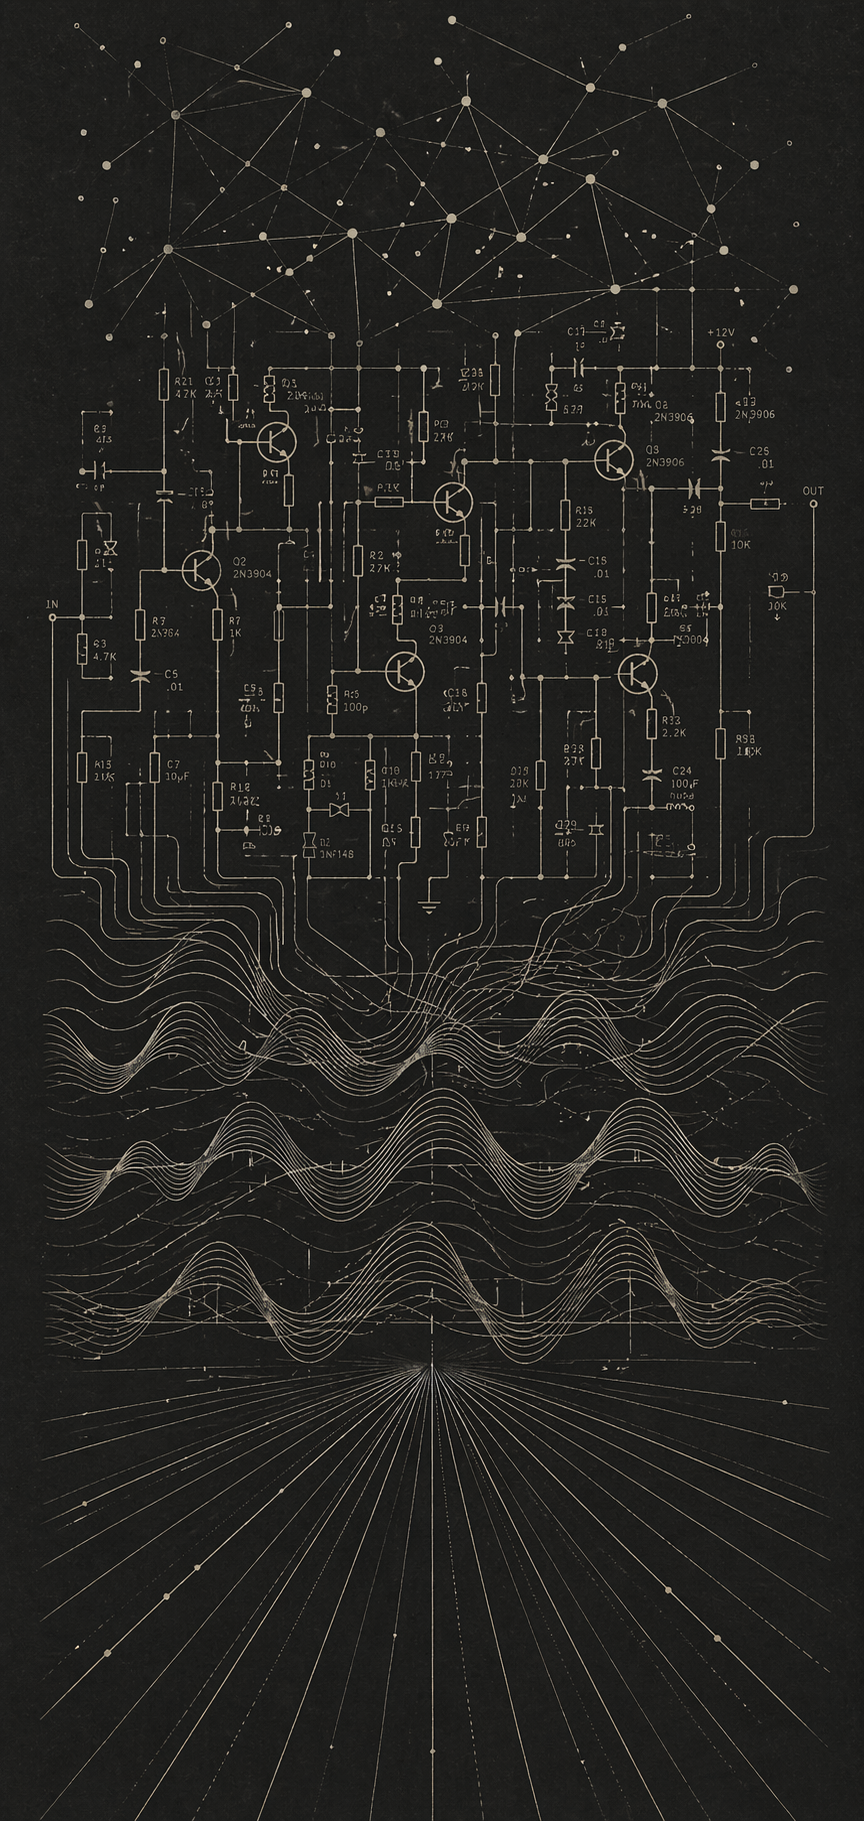
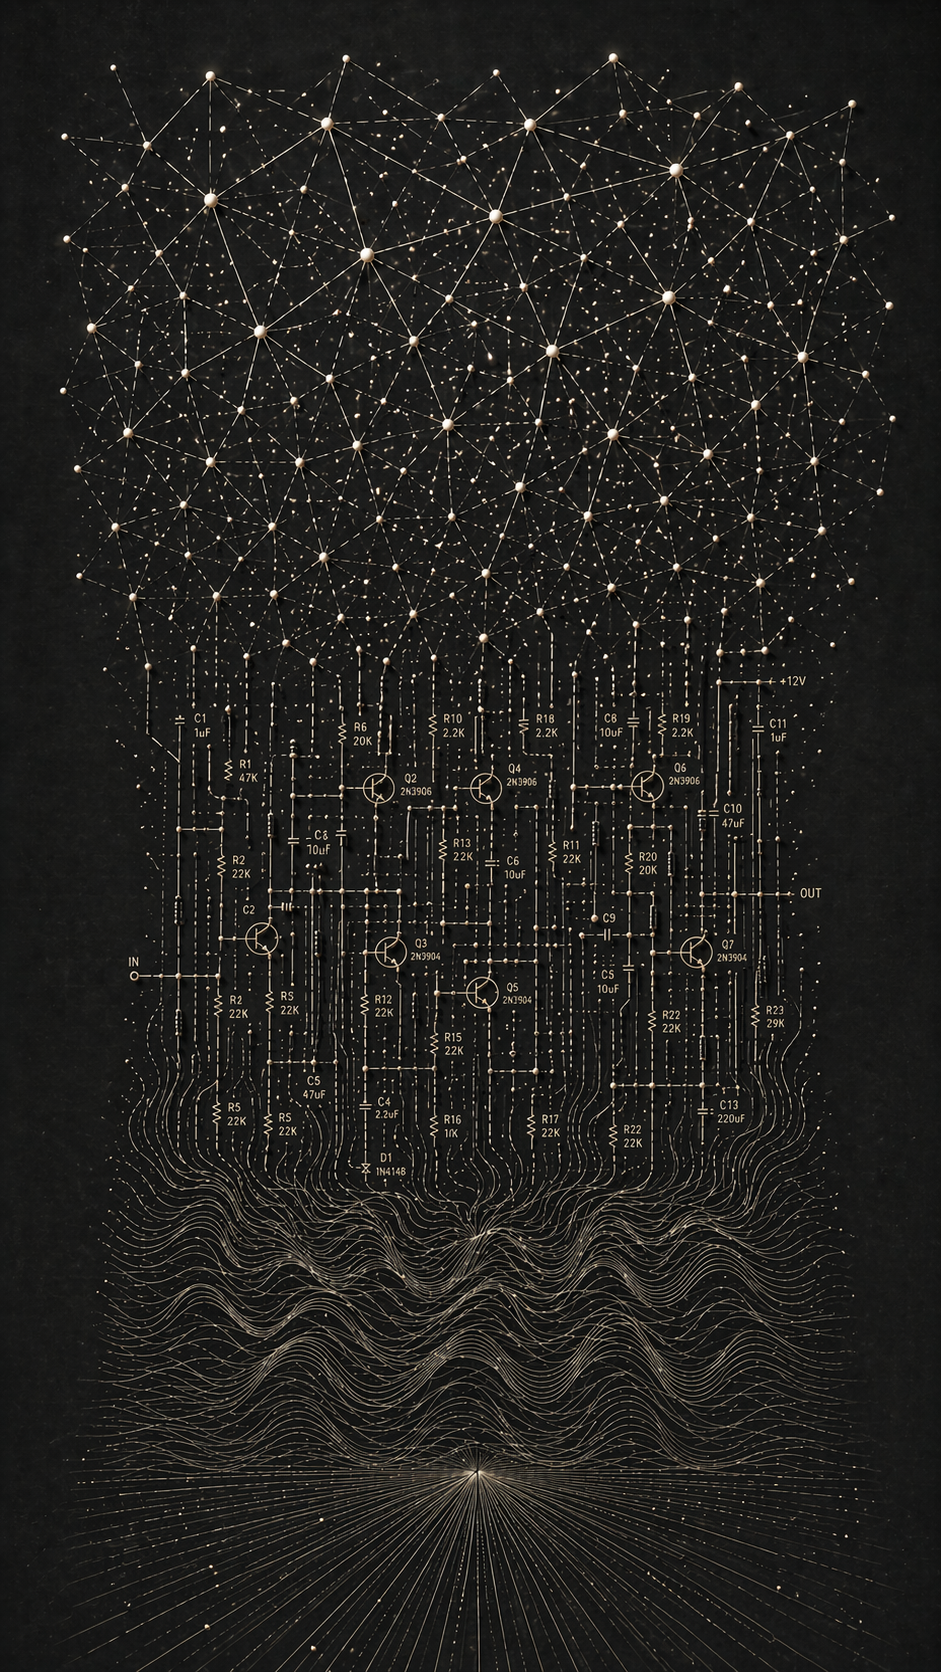
update bg

diff --git a/index.html b/index.html
@@ -1139,20 +1139,28 @@
      the bottom of <body>) against #contact.offsetTop, kept in sync on resize
      and image-load-induced reflows. */
   body { position: relative; }           /* anchor for the absolute-positioned bg layer */
+  .bg-blueprint-wrap {
+    position: fixed;
+    inset: 0;
+    z-index: 0;
+    pointer-events: none;
+    overflow: hidden;
+  }
   .bg-blueprint {
     position: absolute;
     top: 0;
-    left: 0;
-    width: 100%;
-    /* height: set by JS to #contact.offsetTop — fallback below so SSR/no-JS is sane */
-    height: 100%;
-    z-index: 0;
-    pointer-events: none;
-    background-image: url('assets/images/bg-blueprint.png');
-    background-repeat: no-repeat;
-    background-position: top center;
-    background-size: auto 100%;           /* fit to height, keep width proportional */
+    left: 50%;
+    transform: translate3d(-50%, 0, 0);
+    height: auto;
+    max-width: none;
     opacity: 0.65;
+    will-change: transform;
+  }
+  @media (max-width: 768px) {
+    .bg-blueprint { will-change: auto; }
+  }
+  @media (prefers-reduced-motion: reduce) {
+    .bg-blueprint { transform: translate3d(-50%, 0, 0) !important; }
   }
 
   /* Lift all primary content above the fixed z-index:0 parallax layer.
@@ -1177,7 +1185,9 @@
 <body>
 
 <!-- Full-site parallax blueprint background. Painted behind all content. -->
-<div class="bg-blueprint" aria-hidden="true"></div>
+<div class="bg-blueprint-wrap" aria-hidden="true">
+  <img class="bg-blueprint" src="assets/images/bg-blueprint.png" alt="" />
+</div>
 
 <nav>
   <div class="logo">AL<span>/</span>BAY</div>
@@ -2853,21 +2863,43 @@ class Knob {
    resize, on window.load (images), and on any body resize (reveal
    animations, async thumbs). Small, self-contained, uses the shared
    __debounce helper added by the main inline script. */
-(function sizeBlueprint() {
-  var bg = document.querySelector('.bg-blueprint');
-  var end = document.getElementById('contact');
-  if (!bg || !end) return;
-  var update = function() {
-    var h = end.offsetTop;
-    if (h > 0) bg.style.height = h + 'px';
-  };
-  update();
-  var debounced = (typeof window.__debounce === 'function') ? window.__debounce(update, 150) : update;
-  window.addEventListener('resize', debounced);
-  window.addEventListener('load', update);
-  if ('ResizeObserver' in window) {
-    try { new ResizeObserver(debounced).observe(document.body); } catch (e) { /* noop */ }
+(function parallaxBlueprint() {
+  var img = document.querySelector('.bg-blueprint');
+  if (!img) return;
+  var reducedMotion = window.matchMedia('(prefers-reduced-motion: reduce)').matches;
+  var SPEED = 0.4;
+  var scrollMax = 0;
+  var vpH = window.innerHeight;
+  function sizeImg() {
+    vpH = window.innerHeight;
+    scrollMax = Math.max(0, document.documentElement.scrollHeight - vpH);
+    if (!img.naturalWidth || !img.naturalHeight) return;
+    var aspect = img.naturalWidth / img.naturalHeight;
+    var imgH = SPEED * scrollMax + vpH;
+    if (scrollMax < 1) imgH = vpH;
+    img.style.height = imgH + 'px';
+    img.style.width = (imgH * aspect) + 'px';
   }
+  var latestY = 0, ticking = false;
+  function tick() {
+    ticking = false;
+    var y = reducedMotion ? 0 : -SPEED * latestY;
+    img.style.transform = 'translate3d(-50%, ' + y + 'px, 0)';
+  }
+  function onScroll() {
+    latestY = window.scrollY || window.pageYOffset;
+    if (!ticking) { requestAnimationFrame(tick); ticking = true; }
+  }
+  var resizeTimer = null;
+  function onResize() {
+    clearTimeout(resizeTimer);
+    resizeTimer = setTimeout(function () { sizeImg(); tick(); }, 120);
+  }
+  if (img.complete && img.naturalWidth) { sizeImg(); tick(); }
+  else { img.addEventListener('load', function () { sizeImg(); tick(); }, { once: true }); }
+  window.addEventListener('scroll', onScroll, { passive: true });
+  window.addEventListener('resize', onResize, { passive: true });
+  window.addEventListener('orientationchange', onResize, { passive: true });
 })();
 </script>
 
